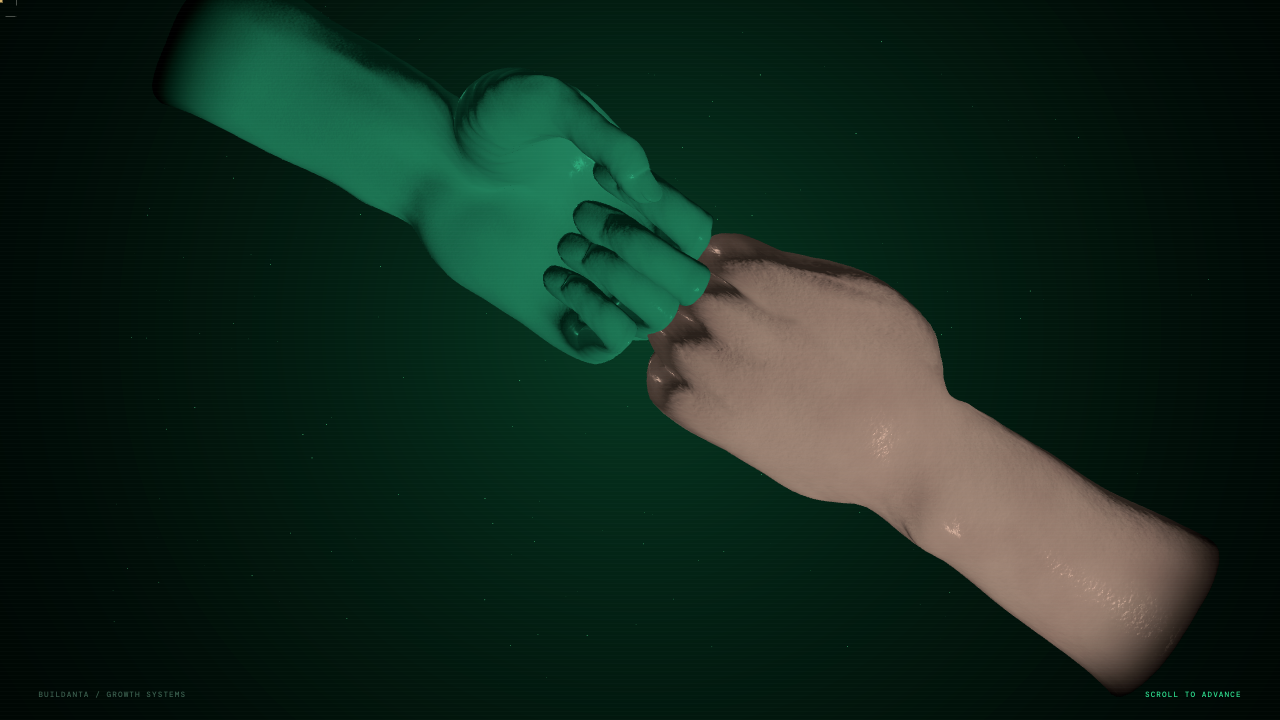
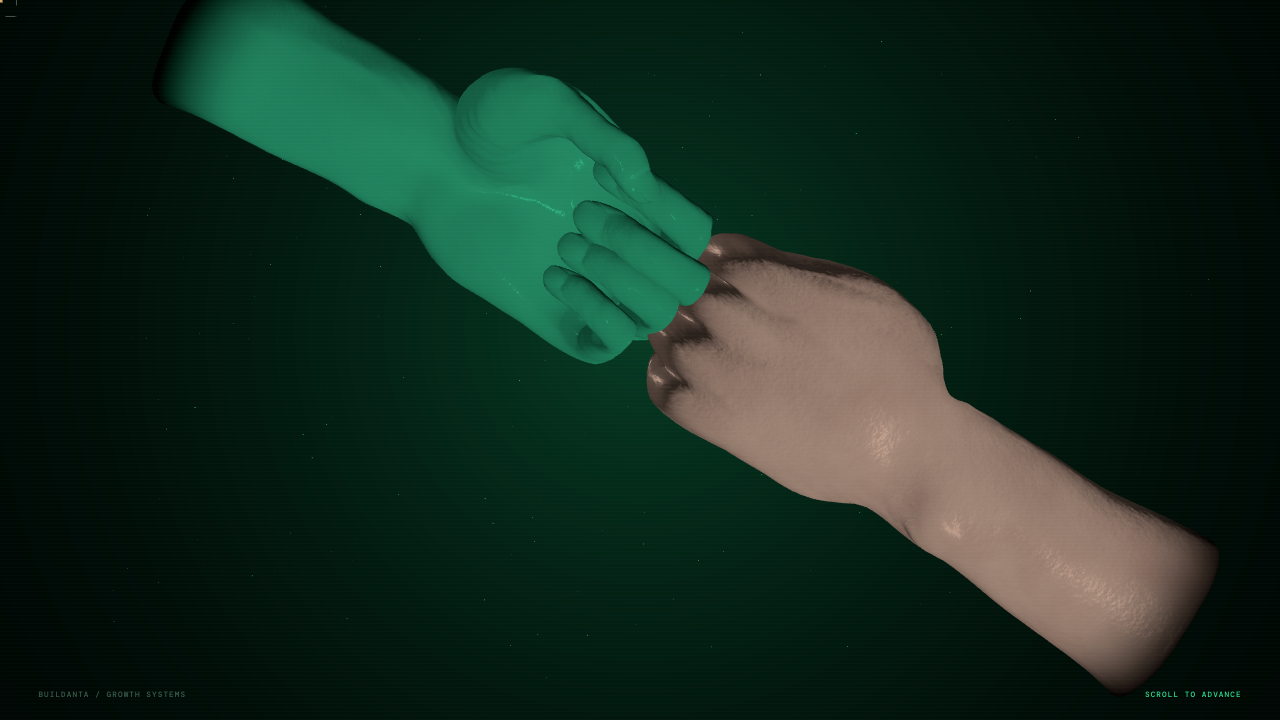
green hand glossier than human: split matcaps (gloss w/ camera glint vs soft sheen)

Changed region(s): [[0.1875, 0.0, 0.4375, 0.2139], [0.4062, 0.2139, 0.5312, 0.4889], [0.3125, 0.2444, 0.3438, 0.3667]]

diff --git a/src/gl/consultMeet.js b/src/gl/consultMeet.js
@@ -49,8 +49,8 @@ import {
 import { GLTFLoader } from "three/addons/loaders/GLTFLoader.js";
 import { DRACOLoader } from "three/addons/loaders/DRACOLoader.js";
 import HANDSHAKE_URL from "../assets/meet-fistbump.glb?url";
-import MATCAP_URL from "../assets/meet-matcap-satin-neutral.png?url";  // satin shading: soft broad highlight (Yash: "a bit more glossy", 2 Sep)
-import SKIN_MATCAP_URL from "../assets/meet-matcap-satin-neutral.png?url";  // satin shading: soft broad highlight (Yash: "a bit more glossy", 2 Sep)
+import MATCAP_URL from "../assets/meet-matcap-gloss-neutral.png?url";  // green: high polish (glossier than the human hand — Yash, 2 Sep)
+import SKIN_MATCAP_URL from "../assets/meet-matcap-soft-neutral.png?url";  // human: soft sheen, deliberately below the green
 import NEUTRAL_MATCAP_URL from "../assets/meet-neutral-matcap.png?url";
 
 const clamp01 = (v) => Math.max(0, Math.min(1, v));
